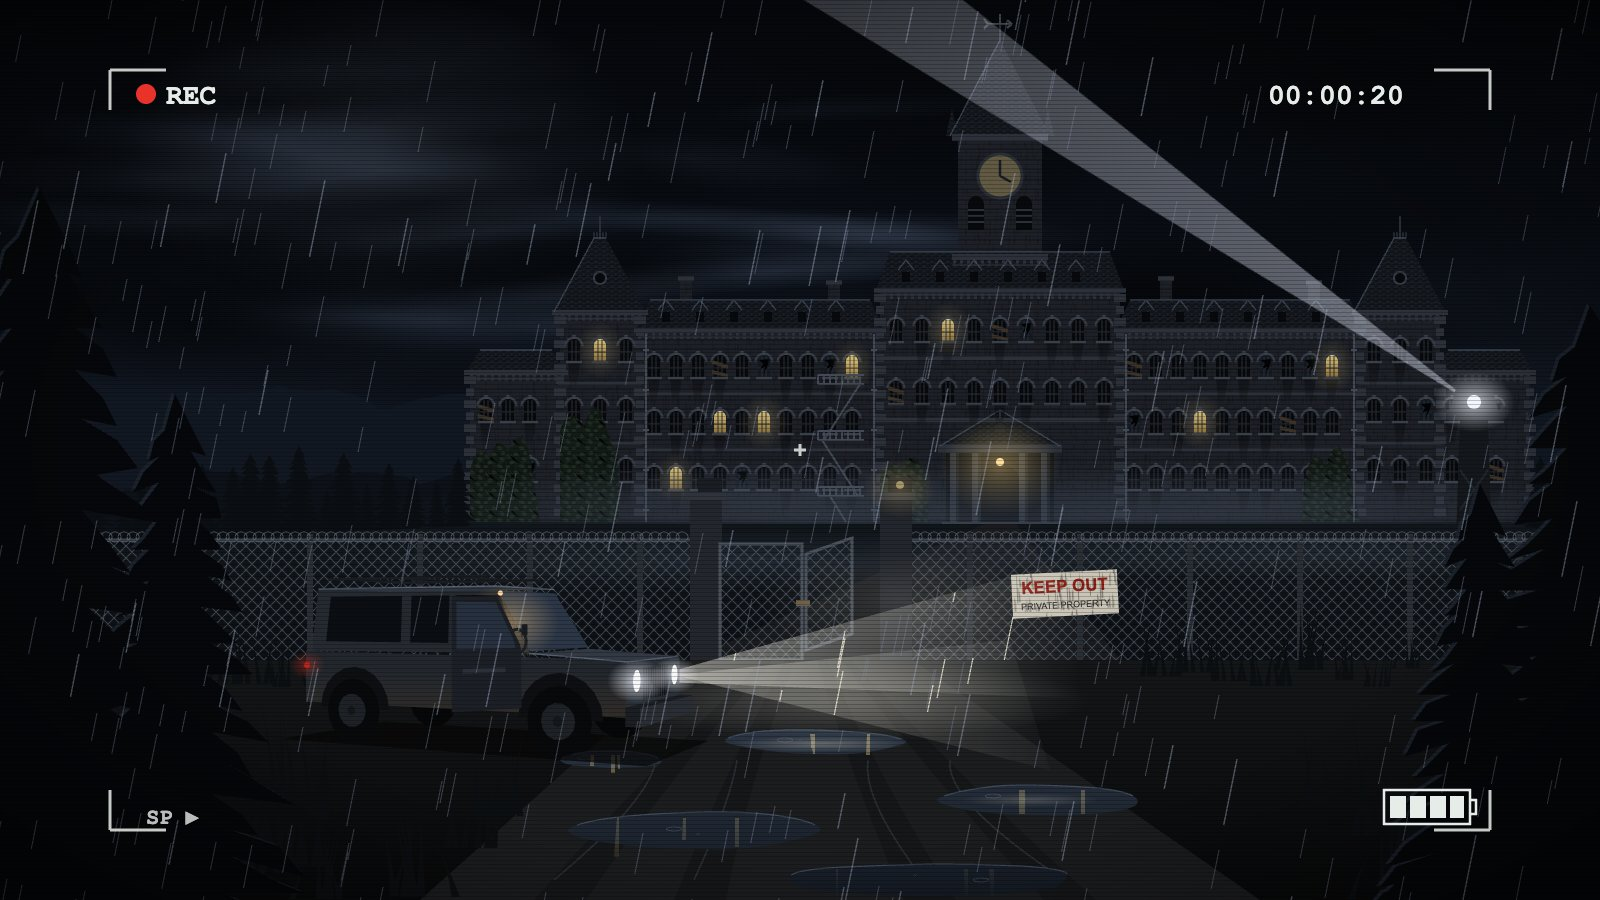
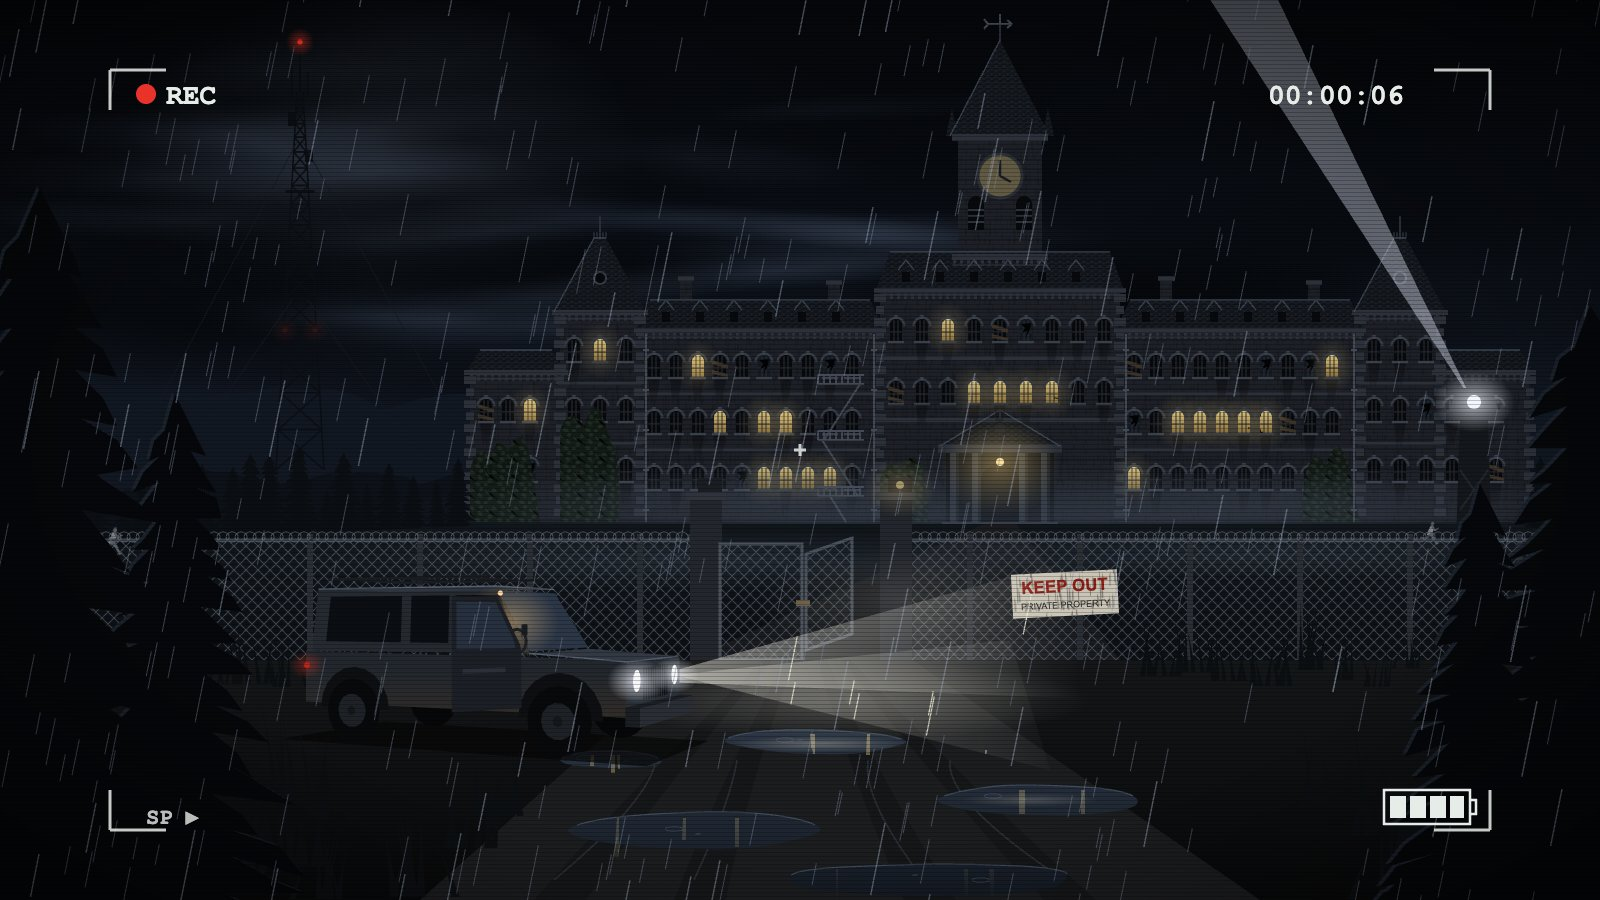
feat: add a radio mast to Outlast and draw the inmates as solid figures
The inmates were thin lines and read as stick figures. They are now solid
bodies in hospital gowns, with tapered limbs and a real stride, on the
lawn and as black shapes against the lit windows inside. A lattice radio
mast with guy wires and blinking red lights stands on the ridge.

diff --git a/plugins/outlast/hooks/scene.js b/plugins/outlast/hooks/scene.js
@@ -3,7 +3,8 @@
 // building, the signs, the jeep and the figures are drawn for it, the asylum has no
 // name, and the camcorder overlay is a generic one.
 //
-// A long Victorian institution stands on a rise behind a chain-link fence: a clock
+// A radio mast with blinking red lights stands on the ridge to the west. A long
+// Victorian institution stands on a rise behind a chain-link fence: a clock
 // tower over the centre, mansard-roofed wings, end pavilions, barred windows, a few
 // of them lit. A guard tower's searchlight sweeps the grounds. At the half-open gate
 // an abandoned jeep still has its headlights on. Rain falls; now and then lightning
@@ -154,27 +155,64 @@ function grassShape(seed) {
   return `<path d="${d}"/>`
 }
 
-// An inmate in a hospital gown, about 44 units tall, feet at (0, 0), facing right:
-// four poses of a running stride. `wild` raises the arms over the head.
+// An inmate in a hospital gown, about 44 units tall, feet at (0, 0), facing right,
+// as a solid silhouette: tapered limbs with rounded joints, a gown with a ragged
+// hem, a head with matted hair, the body leaning into the run. Four poses of the
+// stride; `wild` throws the arms up. Limbs and head take the placed fill; the gown
+// takes the placed colour (currentColor), so the same shape serves as a figure on
+// the lawn and as a black shape against a lit window.
 function inmatePose(k, wild) {
-  // Leg and arm swing for this pose: +1 front, -1 back, 0 passing.
-  const sw = [1, 0, -1, 0][k]
-  const lift = [0, 3, 0, 3][k]
-  const hip = [0, -24 - lift]
-  const foot = (s) => [s * 11, -lift * (s > 0 ? 0 : 1) - (sw === 0 && s < 0 ? 6 : 0)]
-  const legA = foot(sw || 0.3)
-  const legB = foot(-(sw || 0.3))
-  const knee = (f) => [(hip[0] + f[0]) / 2 + 3, (hip[1] + f[1]) / 2 - 1]
-  // The body leans into the run; a wild one throws its arms out and up, bent.
-  const sh = [7, -36 - lift]
-  const arm = (s) => (wild ? [sh[0] + s * 10, sh[1] - 4 - (s > 0 ? 4 : 0)] : [sh[0] - s * 9, sh[1] + 12])
-  const hand = (s) => (wild ? [sh[0] + s * 13 + 4, sh[1] - 15 + (s > 0 ? -3 : 4)] : [sh[0] - s * 13 + 4, sh[1] + 6])
-  const P = (a) => a.map(n1).join(' ')
-  const limbs = `M${P(hip)}L${P(knee(legA))}L${P(legA)}M${P(hip)}L${P(knee(legB))}L${P(legB)}` +
-    `M${P(sh)}L${P(arm(sw || 0.4))}L${P(hand(sw || 0.4))}M${P(sh)}L${P(arm(-(sw || 0.4)))}L${P(hand(-(sw || 0.4)))}`
-  const gown = `M${n1(sh[0] - 6)} ${n1(sh[1] + 1)}L${n1(sh[0] + 6)} ${n1(sh[1] + 1)}L${n1(hip[0] + 8)} ${n1(hip[1] + 8)}L${n1(hip[0] - 7)} ${n1(hip[1] + 9)}Z`
-  return `<path d="${limbs}" fill="none" stroke="#5d6269" stroke-width="3" stroke-linecap="round" stroke-linejoin="round"/>` +
-    `<path d="${gown}" fill="#7c8187"/><circle cx="${n1(sh[0] + 3)}" cy="${n1(sh[1] - 5)}" r="4.6" fill="#6d6f70"/>`
+  const rad = (d) => (d * Math.PI) / 180
+  const to = ([x, y], a, l) => [x + Math.sin(rad(a)) * l, y + Math.cos(rad(a)) * l]
+  // [thigh, knee bend] for the near (A) and far (B) leg, degrees from straight down.
+  const legs = [[[38, 14], [-30, 72]], [[6, 4], [24, 105]], [[-30, 72], [38, 14]], [[24, 105], [6, 4]]][k]
+  const reach = ([t, b]) => 12 * Math.cos(rad(t)) + 12 * Math.cos(rad(t - b))
+  const hip = [0, -Math.max(reach(legs[0]), reach(legs[1]))]
+  const lean = 18
+  const sh = to(hip, 180 - lean, 14)
+  const limb = (p0, p1, w0, w1) => {
+    const dx = p1[0] - p0[0]
+    const dy = p1[1] - p0[1]
+    const l = Math.hypot(dx, dy) || 1
+    const nx = -dy / l
+    const ny = dx / l
+    const pts2 = [[p0[0] + nx * w0, p0[1] + ny * w0], [p1[0] + nx * w1, p1[1] + ny * w1], [p1[0] - nx * w1, p1[1] - ny * w1], [p0[0] - nx * w0, p0[1] - ny * w0]]
+    return 'M' + pts2.map((q) => q.map(n1).join(' ')).join('L') + `ZM${n1(p1[0] - w1)} ${n1(p1[1])}a${n1(w1)} ${n1(w1)} 0 1 0 ${n1(w1 * 2)} 0a${n1(w1)} ${n1(w1)} 0 1 0 ${n1(-w1 * 2)} 0`
+  }
+  const leg = ([t, b]) => {
+    const knee = to(hip, t, 12)
+    const ankle = to(knee, t - b, 12)
+    const toe = to(ankle, t - b + 95, 4)
+    return limb(hip, knee, 3, 2.2) + limb(knee, ankle, 2.2, 1.4) + limb(ankle, toe, 1.4, 1)
+  }
+  // Arms swing against the legs, elbows bent; or, wild, thrown up and out.
+  const arm = (swing, up) => {
+    const ua = wild ? (up ? 140 : -125) : -swing * 1.1
+    const elbow = to(sh, ua, 9)
+    const hand = to(elbow, wild ? (up ? 178 : -95) : ua + 88, 8)
+    return limb(sh, elbow, 2.2, 1.7) + limb(elbow, hand, 1.7, 1.2)
+  }
+  const near = leg(legs[0]) + arm(legs[1][0], true)
+  const far = leg(legs[1]) + arm(legs[0][0], false)
+  // The gown: shoulders to a ragged hem below the hip.
+  const side = (p, w) => [[p[0] - Math.cos(rad(lean)) * w, p[1] - Math.sin(rad(lean)) * w], [p[0] + Math.cos(rad(lean)) * w, p[1] + Math.sin(rad(lean)) * w]]
+  // The gown: narrow at the shoulders, wider and ragged at the hem, its sides
+  // curving with the body.
+  const [sl, sr] = side(sh, 3.6)
+  const waist = to(hip, 180 - lean, 5)
+  const [wl, wr] = side(waist, 3.9)
+  const hem = to(hip, -lean, 4)
+  const [hl, hr] = side(hem, 5)
+  const P = (q) => q.map(n1).join(' ')
+  const gown = `M${P(sl)}L${P(sr)}Q${P(wr)} ${P(hr)}L${P([hr[0] - 1.6, hr[1] - 1.2])}L${P([hr[0] - 3.2, hr[1] + 0.8])}L${P([(hl[0] + hr[0]) / 2, hem[1] - 0.8])}L${P([hl[0] + 2.4, hl[1] + 1.2])}L${P(hl)}Q${P(wl)} ${P(sl)}Z`
+  // The neck, the head, and lank hair hanging down the back of it.
+  const head = to(sh, 180 - lean + 8, 5.4)
+  const neck = limb(sh, to(sh, 180 - lean + 8, 3), 1.4, 1.3)
+  const hx = head[0]
+  const hy = head[1]
+  const hair = `M${n1(hx + 2.4)} ${n1(hy - 3)}Q${n1(hx - 1)} ${n1(hy - 5.6)} ${n1(hx - 3.6)} ${n1(hy - 1.6)}L${n1(hx - 5)} ${n1(hy + 4)}L${n1(hx - 3.6)} ${n1(hy + 2.4)}L${n1(hx - 3.4)} ${n1(hy + 5)}L${n1(hx - 2.2)} ${n1(hy + 1.6)}L${n1(hx - 1.2)} ${n1(hy + 3.6)}L${n1(hx - 0.8)} ${n1(hy - 1.4)}Z`
+  return `<path d="${far}" opacity="0.7"/><path d="${gown}" fill="currentColor"/>` +
+    `<path d="${near}${neck}M${n1(hx - 3)} ${n1(hy)}a3 3.6 0 1 0 6 0a3 3.6 0 1 0 -6 0"/><path d="${hair}" opacity="0.6"/>`
 }
 
 function symbols() {
@@ -217,6 +255,7 @@ function sky() {
     `<g>${stepDrift(80, 0, 90)}${drift}</g>` +
     lightningSky() +
     `<path d="M${pts(farR)}L1600 620L0 620Z" fill="#121822"/>` +
+    radioTower() +
     `<path d="M${pts(nearR)}L1600 620L0 620Z" fill="#0d1219"/>`
 }
 
@@ -238,12 +277,36 @@ function lightningSky() {
     return `<rect width="${W}" height="520" fill="url(#o-flash)" opacity="0">${timeline('opacity', dur, flash)}</rect>` +
       `<path d="${d}${fork}" fill="none" stroke="#e6ecff" stroke-width="2.4" opacity="0">${timeline('opacity', dur, bolt)}</path>`
   }
-  return strike(23, 9, 300, 11) + strike(37, 21, 1180, 12)
+  return strike(23, 9, 560, 11) + strike(37, 21, 1180, 12)
 }
 // The same strikes light the whole scene a little.
 const lightningAll = () =>
   `<rect width="${W}" height="${H}" fill="#a8b8d8" opacity="0">${timeline('opacity', 23, [[0, 0], [9, 0.14], [9 + 2 * TICK, 0.03], [9 + 4 * TICK, 0.1], [9 + 7 * TICK, 0]])}</rect>` +
   `<rect width="${W}" height="${H}" fill="#a8b8d8" opacity="0">${timeline('opacity', 37, [[0, 0], [21, 0.14], [21 + 2 * TICK, 0.03], [21 + 4 * TICK, 0.1], [21 + 7 * TICK, 0]])}</rect>`
+
+// The radio tower on the ridge west of the asylum: a tall tapering lattice mast
+// with cross bracing, two platforms, antennas at the top and guy wires to the
+// ground. Red warning lights blink at its top and its middle.
+function radioTower() {
+  const X = 300
+  const BOT = 470
+  const TOP = 92
+  const half = (y) => 3 + ((y - TOP) / (BOT - TOP)) * 21
+  let d = `M${X - half(BOT)} ${BOT}L${X - half(TOP)} ${TOP}M${X + half(BOT)} ${BOT}L${X + half(TOP)} ${TOP}`
+  for (let y = BOT; y > TOP + 10; ) {
+    const y2 = y - (10 + (y - TOP) * 0.08)
+    d += `M${n1(X - half(y))} ${n1(y)}L${n1(X + half(y2))} ${n1(y2)}M${n1(X + half(y))} ${n1(y)}L${n1(X - half(y2))} ${n1(y2)}M${n1(X - half(y2))} ${n1(y2)}H${n1(X + half(y2))}`
+    y = y2
+  }
+  const deck = (y) => `M${n1(X - half(y) - 6)} ${y}H${n1(X + half(y) + 6)}v3H${n1(X - half(y) - 6)}z`
+  const guys = `M${X - 2} 140L120 476M${X + 2} 140L480 470M${X - 8} 300L170 476M${X + 8} 300L430 472`
+  const blink = (x, y, begin) => `<g>${timeline('opacity', 2, begin ? [[0, 0.15], [1, 1]] : [[0, 1], [1, 0.15]])}<circle cx="${x}" cy="${y}" r="2.6" fill="#ff3a2a"/>${blob('o-red', x, y, 14, 14, 0.9)}</g>`
+  return `<path d="${d}" fill="none" stroke="#0b0e13" stroke-width="1.6"/>` +
+    `<path d="${deck(330)}${deck(190)}M${X - 1} ${TOP}V44h2V${TOP}zM${X - 9} ${TOP + 6}V66h1.6V${TOP + 6}zM${X + 7} ${TOP + 4}V72h1.6V${TOP + 4}z" fill="#0b0e13"/>` +
+    `<path d="M${X - 12} 112h8v14h-8zM${X + 5} 150h8v12h-8z" fill="#0b0e13"/>` +
+    `<path d="${guys}" stroke="#141921" stroke-width="0.8"/>` +
+    blink(X, 42, false) + blink(X - 15, 330, true) + blink(X + 15, 330, true)
+}
 
 // ---------------------------------------------------------------- the asylum
 
@@ -402,7 +465,6 @@ function asylum() {
   const lampFx = `<g>${timeline('opacity', 7, [[0, 1], [2, 0.3], [2 + 2 * TICK, 1], [2 + 5 * TICK, 0.2], [2 + 7 * TICK, 1], [5.5, 0.6], [5.5 + 3 * TICK, 1]])}${lamp}</g>`
   // Inmates running inside: dark silhouettes crossing each corridor's lit windows,
   // seen only through the glass, one way and then, later, the other.
-  const shape = '<path d="M-1 -11L1 -5M1 -5L-3 0M1 -5L4 -1M-1 -10L-5 -8M0 -10L4 -12" fill="none" stroke="#140f08" stroke-width="2.6" stroke-linecap="round"/><circle cx="-0.5" cy="-13.5" r="2.6" fill="#140f08"/>'
   let inside = ''
   CORRIDORS.forEach(([key, x0, step, y, a, b], ci) => {
     const xa = x0 + a * step - 10
@@ -414,8 +476,7 @@ function asylum() {
       const n = Math.round(((xb - xa) / 80) * FPS)
       const xs = [[0, dir > 0 ? xa - 8 : xb + 8]]
       for (let i = 0; i <= n; i++) xs.push([t0 + i / FPS, n0(dir > 0 ? xa + ((xb - xa) * i) / n : xb - ((xb - xa) * i) / n)])
-      const bob = wild ? ' transform="rotate(-12)"' : ''
-      return `<g>${timeline('', dur, xs.map(([t, v]) => [t, `${v}`]), 'translate')}<g transform="scale(${dir} 1)"><g${bob}>${shape}</g></g></g>`
+      return `<g>${timeline('', dur, xs.map(([t, v]) => [t, `${v}`]), 'translate')}<g transform="scale(${dir * 0.42} 0.42)" fill="#120d08" color="#120d08">${stride(wild)}</g></g>`
     }
     inside += `<clipPath id="o-cor${ci}"><path d="${clip}"/></clipPath><g clip-path="url(#o-cor${ci})"><g transform="translate(0 ${y + 11})">` +
       cross(2 + ci * 3, 1, ci === 1) + cross(dur / 2 + 1 + ci, -1, ci !== 1) + '</g></g>'
@@ -487,6 +548,9 @@ function grounds() {
     `<g>${stepDrift(70, 0, 60)}${blob('o-fog', 700, 560, 460, 30, 0.5)}${blob('o-fog', 1250, 555, 380, 26, 0.45)}</g>`
 }
 
+// The stride: the four poses shown in turn, three ticks each.
+const stride = (wild) => [0, 1, 2, 3].map((k) => `<g opacity="${k ? 0 : 1}">${timeline('opacity', 0.5, k ? [[0, 0], [k * 0.125, 1], [(k + 1) * 0.125, 0]].slice(0, k === 3 ? 2 : 3) : [[0, 1], [0.125, 0]])}<use href="#${wild ? 'j' : 'i'}${k}"/></g>`).join('')
+
 // Inmates running across the lawn behind the fence. None appears from nothing: each
 // runs in from beyond the frame's edge (behind the pines) or bursts out of the dark
 // front door, and runs off the edge or into the doorway. `path` is a list of
@@ -516,9 +580,7 @@ function runner(dur, t0, path, wild, s, fadeIn = false, fadeOut = false) {
   const fade = (from, to, start) => Array.from({ length: 6 }, (_, k) => [start + k / FPS, n2(from + ((to - from) * (k + 1)) / 6)])
   const vis = [[0, 0], ...(fadeIn ? fade(0, 1, t0) : [[t0, 1]]), ...(fadeOut ? fade(1, 0, t1 - 6 / FPS) : [[t1 + 1 / FPS, 0]])]
   const flip = path[path.length - 1][0] < path[0][0] ? -s : s
-  // The stride: each pose shown in turn, three ticks each.
-  const pose = (k) => `<g opacity="${k ? 0 : 1}">${timeline('opacity', 0.5, k ? [[0, 0], [k * 0.125, 1], [(k + 1) * 0.125, 0]].slice(0, k === 3 ? 2 : 3) : [[0, 1], [0.125, 0]])}<use href="#${wild ? 'j' : 'i'}${k}"/></g>`
-  return `<g opacity="0"${level ? ` transform="translate(0 ${path[0][1]})"` : ''}>${timeline('opacity', dur, vis)}<g>${timeline('', dur, pos, 'translate')}<g transform="scale(${flip} ${s})">${pose(0)}${pose(1)}${pose(2)}${pose(3)}</g></g></g>`
+  return `<g opacity="0"${level ? ` transform="translate(0 ${path[0][1]})"` : ''}>${timeline('opacity', dur, vis)}<g>${timeline('', dur, pos, 'translate')}<g transform="scale(${flip} ${s})" fill="#55595e" color="#7d8287">${stride(wild)}</g></g></g>`
 }
 function inmates() {
   const door = [1000, 527]
@@ -834,6 +896,7 @@ export function buildScene() {
     <linearGradient id="o-lit" x1="0" y1="0" x2="0" y2="1"><stop offset="0" stop-color="#d9c27c"/><stop offset="1" stop-color="#8a6f37"/></linearGradient>
     <radialGradient id="o-lamp"><stop offset="0" stop-color="#ffd98a" stop-opacity="0.55"/><stop offset="1" stop-color="#ffd98a" stop-opacity="0"/></radialGradient>
     <radialGradient id="o-lamp2"><stop offset="0" stop-color="#f4f6ff" stop-opacity="0.8"/><stop offset="1" stop-color="#f4f6ff" stop-opacity="0"/></radialGradient>
+    <radialGradient id="o-red"><stop offset="0" stop-color="#ff3a2a" stop-opacity="0.6"/><stop offset="1" stop-color="#ff3a2a" stop-opacity="0"/></radialGradient>
     <radialGradient id="o-dome"><stop offset="0" stop-color="#ffcf8a" stop-opacity="0.5"/><stop offset="1" stop-color="#ffcf8a" stop-opacity="0"/></radialGradient>
     <radialGradient id="o-tail"><stop offset="0" stop-color="#ff3a2a" stop-opacity="0.45"/><stop offset="1" stop-color="#ff3a2a" stop-opacity="0"/></radialGradient>
     <linearGradient id="o-stain" x1="0" y1="0" x2="0" y2="1"><stop offset="0" stop-color="#0a0b0d" stop-opacity="0.7"/><stop offset="1" stop-color="#0a0b0d" stop-opacity="0"/></linearGradient>

diff --git a/README.md b/README.md
@@ -100,7 +100,7 @@ Outlast inspired: a remote asylum on a mountain at night in a rainstorm, seen fr
 
 Moving parts:
 - rain falls, brighter in the beams of an abandoned jeep's headlights, and ripples cross the puddles;
-- lightning strikes, and a guard tower's searchlight sweeps the grounds;
+- lightning strikes, a guard tower's searchlight sweeps the grounds, and red lights blink on a radio mast on the ridge;
 - windows buzz and stutter, a power surge now and then blacks out the whole building, and a figure passes behind a lit window;
 - inmates in hospital gowns sprint across the lawn behind the fence, in from the frame's edge or out of the front door, and silhouettes run past the lit windows inside;
 - the camcorder shows REC, a running timecode and a draining battery, and about once a minute it switches to night vision, where something waits at the fence.
